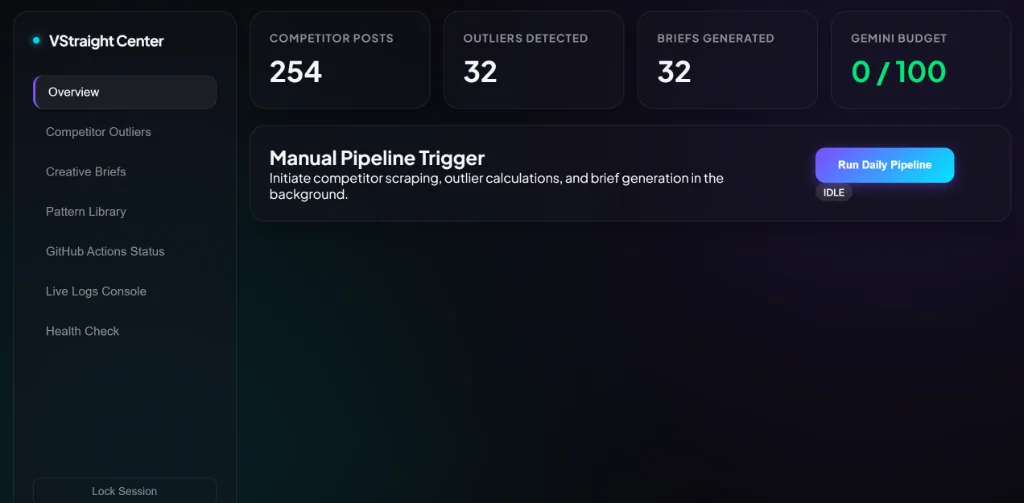
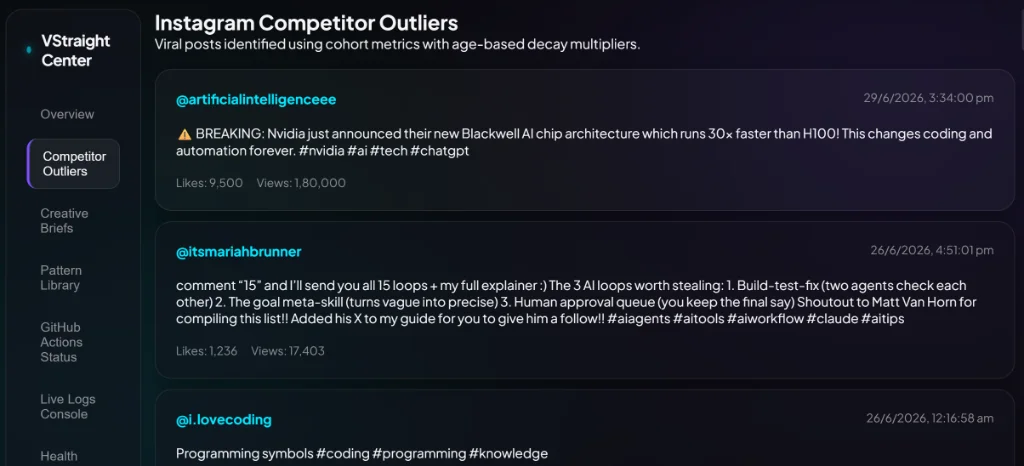
docs: replace Vcentre mockups with highly compressed WebP Outliers & Creative Briefs screenshots

diff --git a/src/lib/project-details.ts b/src/lib/project-details.ts
@@ -545,7 +545,7 @@ export const PROJECT_DETAILS: Record<string, ProjectDetail> = {
       "Surface closed-loop feedback scores directly on the dashboard so a declining pattern's success rate is visible before it's automatically retired.",
     ],
     gallery: [
-      { label: "Dashboard Trend View", img: "/vcentre-preview.webp" },
+      { label: "Competitor Outliers", img: "/vcentre-preview.webp" },
       { label: "AI Creative Briefs", img: "/vcentre-briefs-view.webp" },
     ],
   },